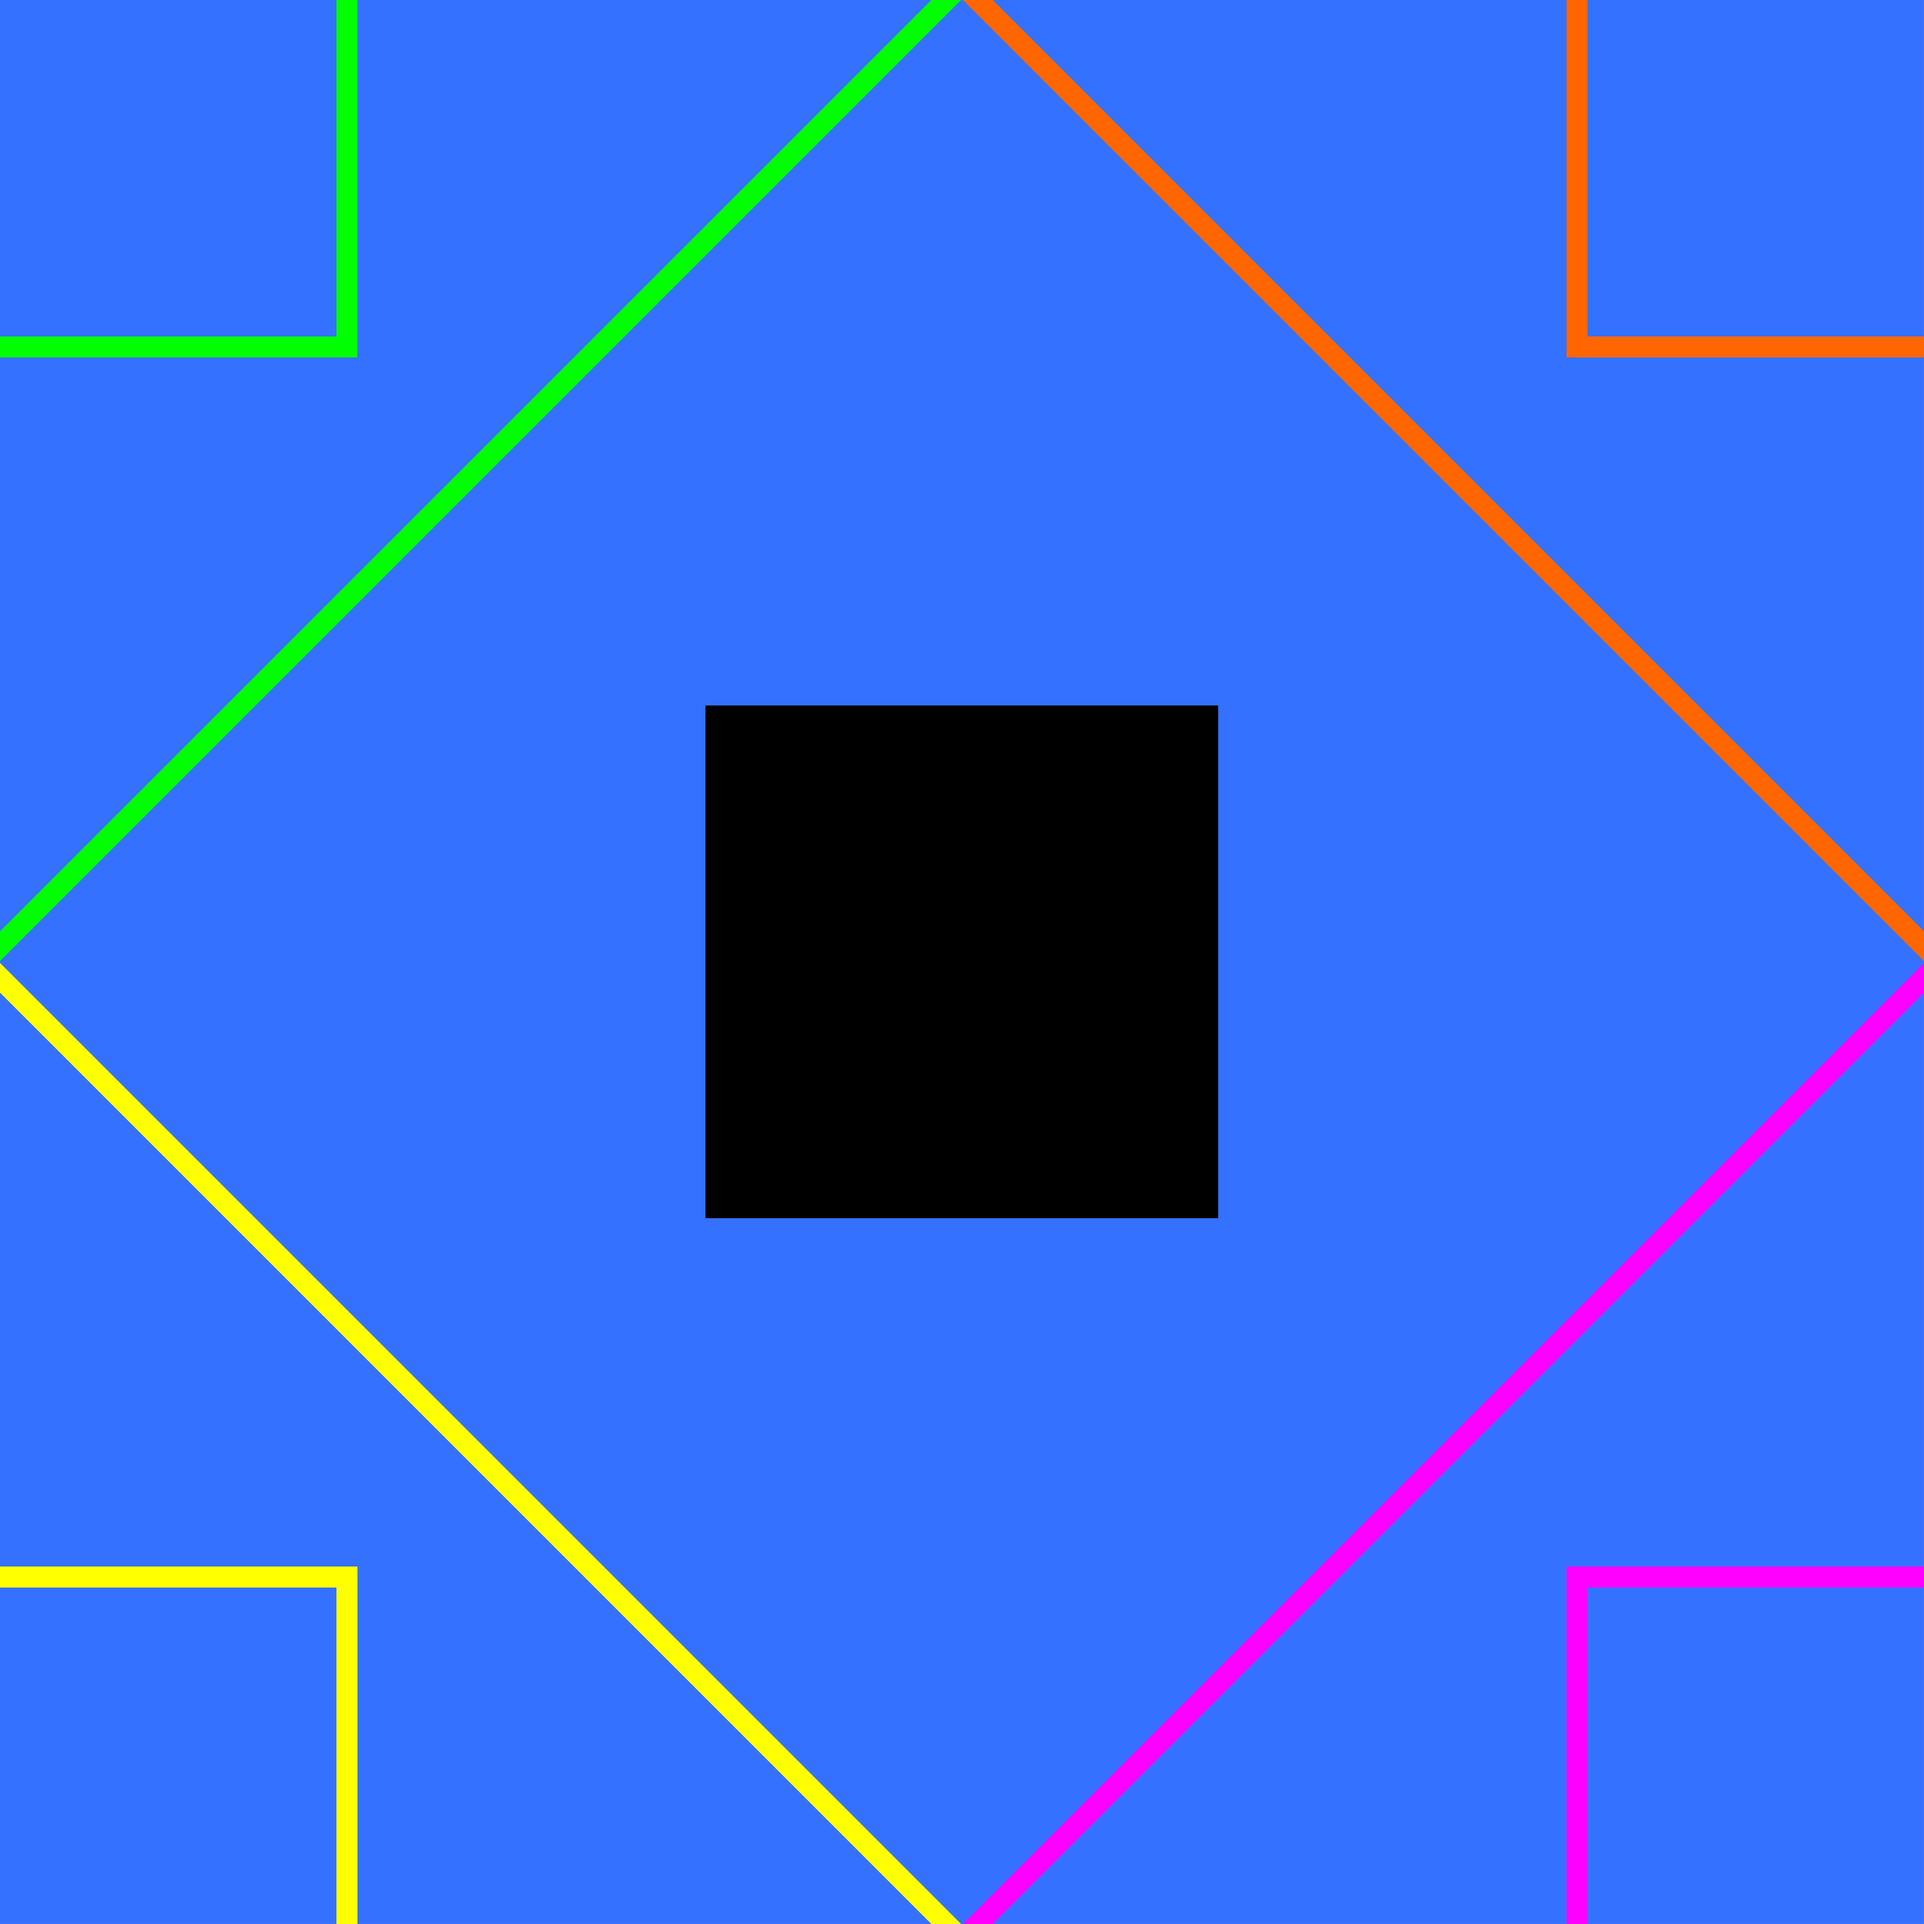
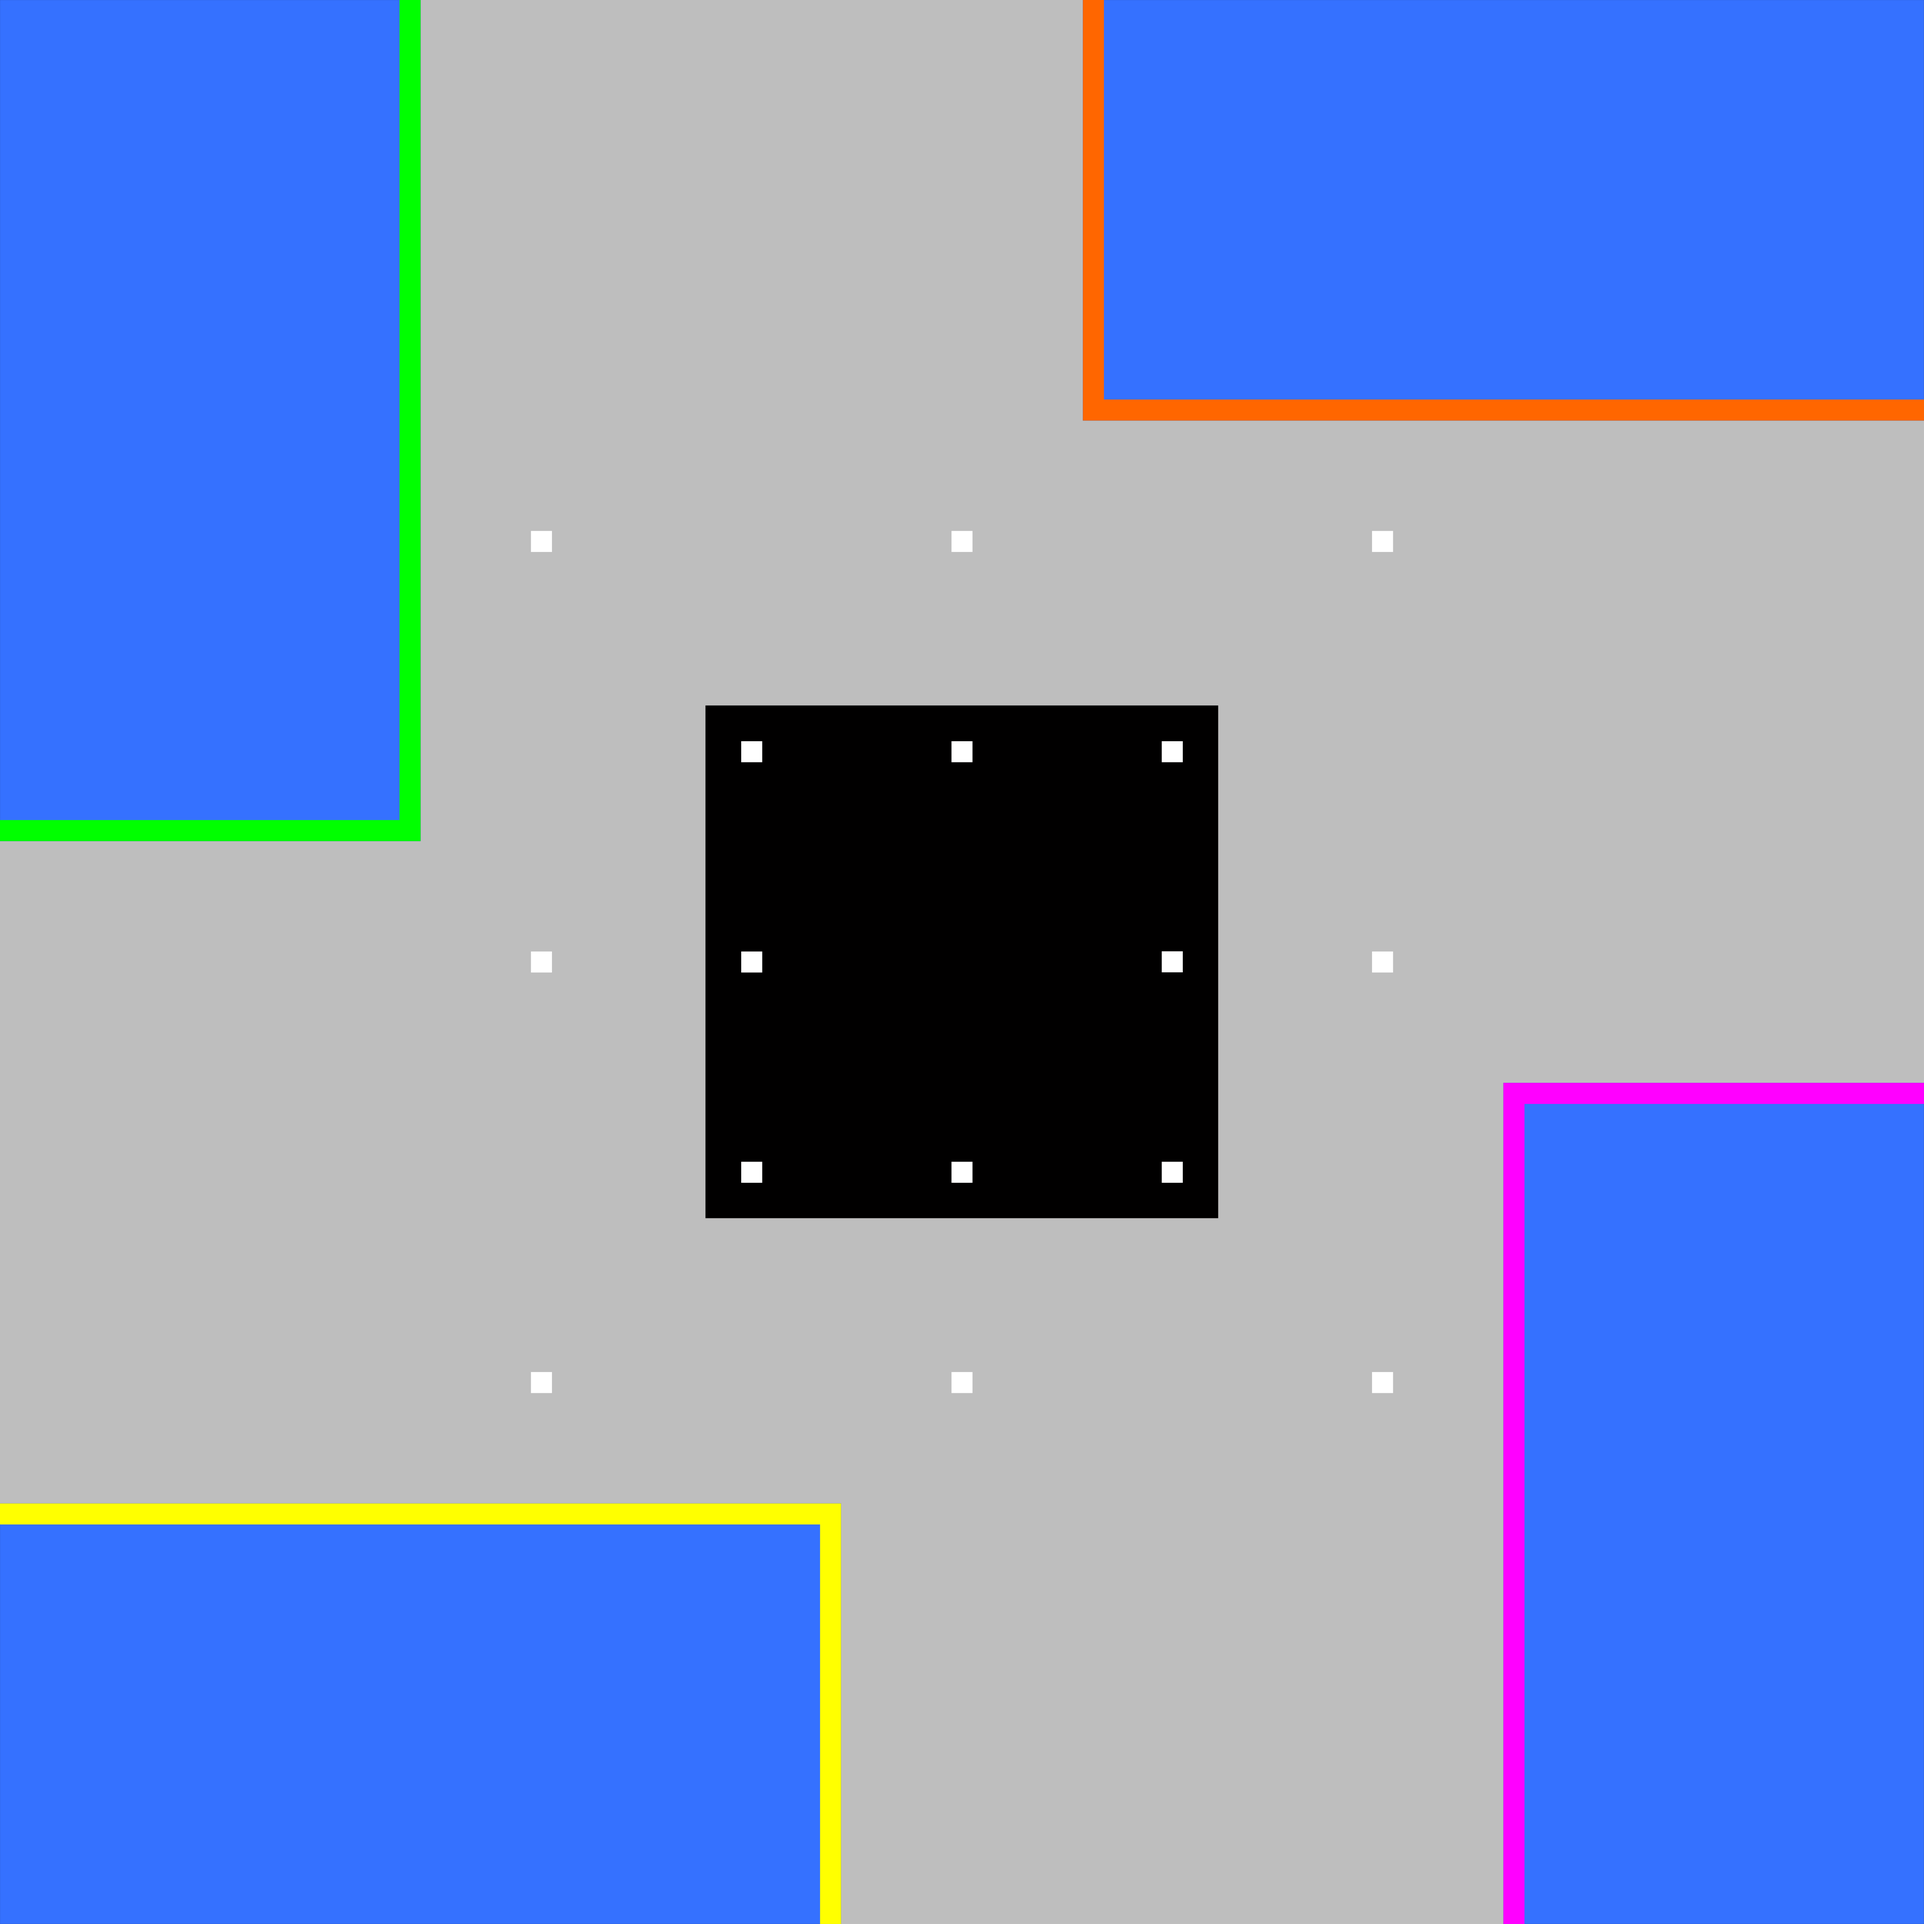
Update arena layout

diff --git a/example_robots/basic_robot.py b/example_robots/basic_robot.py
@@ -5,10 +5,10 @@ robot = Robot()
 robot.motor_board.motors[0].power = 1
 robot.motor_board.motors[1].power = 1
 
-# measure the distance of the right ultrasound sensor
-# pin 6 is the trigger pin, pin 7 is the echo pin
-distance = robot.arduino.ultrasound_measure(6, 7)
-print(f"Right ultrasound distance: {distance / 1000} meters")
+# measure the distance of the left ultrasound sensor
+# pin 4 is the trigger pin, pin 5 is the echo pin
+distance = robot.arduino.ultrasound_measure(4, 5)
+print(f"Left ultrasound distance: {distance / 1000} meters")
 
 # motor board, channel 0 to half power forward
 robot.motor_board.motors[0].power = 0.5
